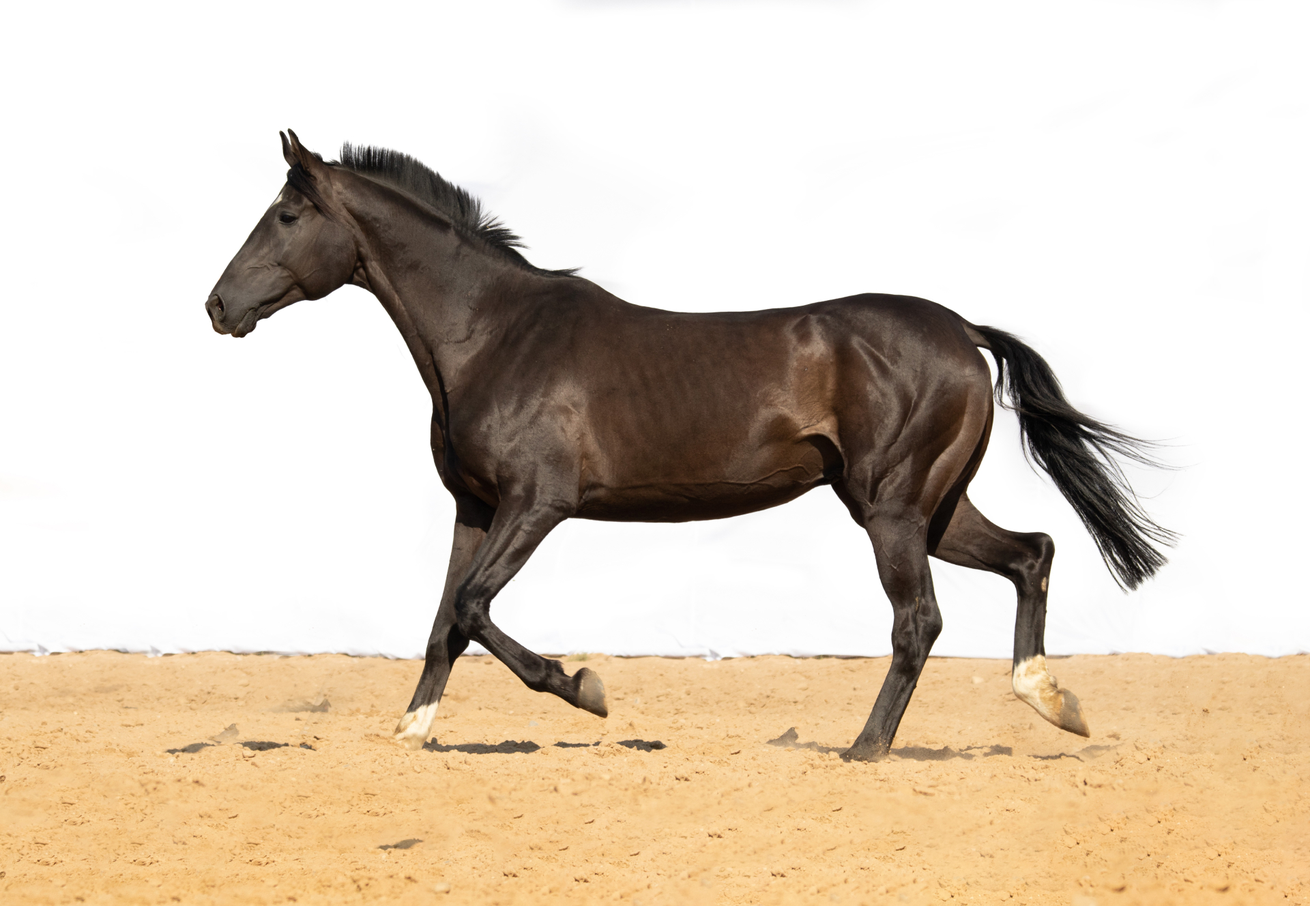
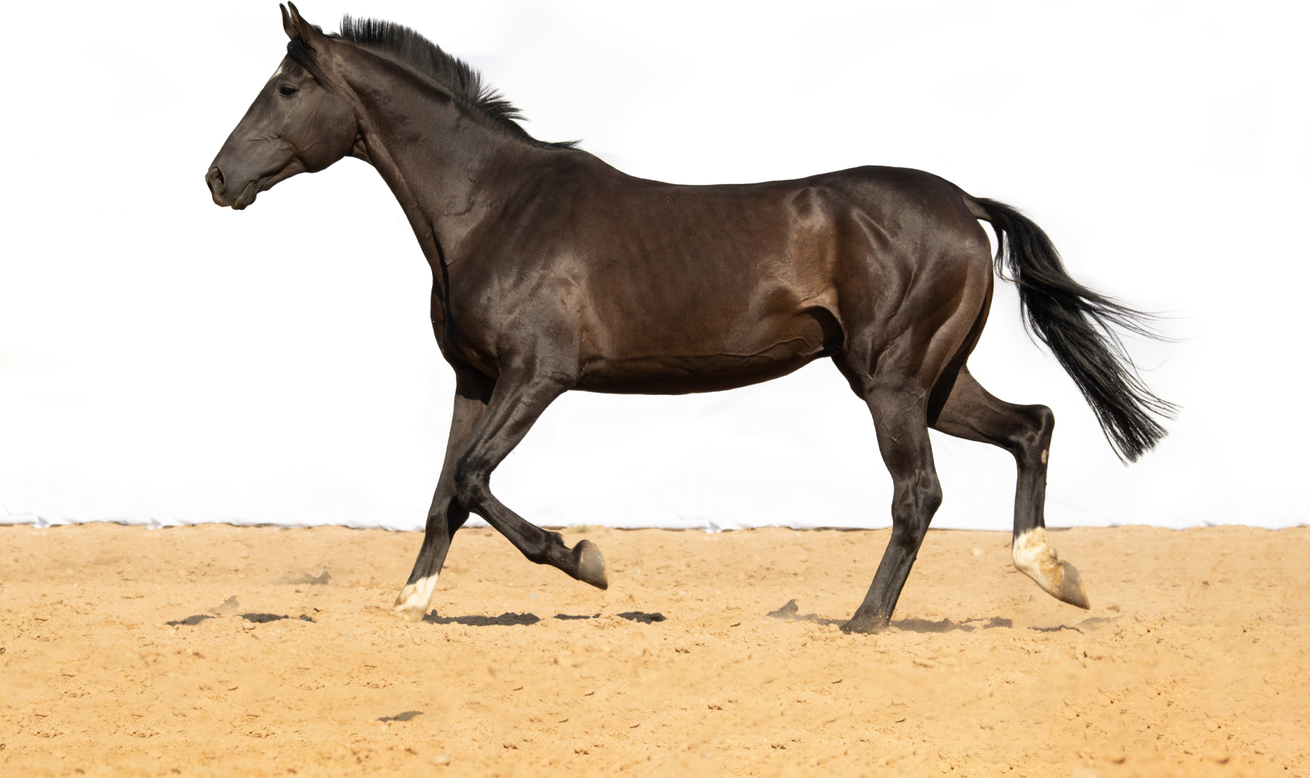
add stylization for technologie-horse section withot hover-effects

diff --git a/dist/css/main.css b/dist/css/main.css
@@ -1,1 +1,1 @@
-@charset "UTF-8";@font-face{font-family:Glyphter;src:url(../fonts/Glyphter.eot);src:url(../fonts/Glyphter.eot?#iefix) format("embedded-opentype"),url(../fonts/Glyphter.woff) format("woff"),url(../fonts/Glyphter.ttf) format("truetype"),url(../fonts/Glyphter.svg#Glyphter) format("svg");font-weight:400;font-style:normal}[class*=icon-]:before{display:inline-block;font-family:Glyphter;font-style:normal;font-weight:400;line-height:1;-webkit-font-smoothing:antialiased;-moz-osx-font-smoothing:grayscale}@font-face{font-family:"Avenir Roman";src:url(../fonts/Avenir-Roman.eot);src:local("☺"),url(../fonts/Avenir-Roman.woff) format("woff"),url(../fonts/Avenir-Roman.ttf) format("truetype"),url(../fonts/Avenir-Roman.svg) format("svg");font-weight:400;font-style:normal}@font-face{font-family:PierSans-Black;src:url(../fonts/PierSans-Black.eot);src:local("☺"),url(../fonts/PierSans-Black.woff) format("woff"),url(../fonts/PierSans-Black.ttf) format("truetype"),url(../fonts/PierSans-Black.svg) format("svg");font-weight:400;font-style:normal}@font-face{font-family:PierSans-Bold;src:url(../fonts/PierSans-Bold.eot);src:local("☺"),url(../fonts/PierSans-Bold.woff) format("woff"),url(../fonts/PierSans-Bold.ttf) format("truetype"),url(../fonts/PierSans-Bold.svg) format("svg");font-weight:400;font-style:normal}@font-face{font-family:PierSans-Regular;src:url(../fonts/PierSans-Regular.eot);src:local("☺"),url(../fonts/PierSans-Regular.woff) format("woff"),url(../fonts/PierSans-Regular.ttf) format("truetype"),url(../fonts/PierSans-Regular.svg) format("svg");font-weight:400;font-style:normal}.icon-right-arrow:before{content:"A"}.icon-link:before{content:"B"}.icon-left-arrow:before{content:"C"}.icon-tw:before{content:"D"}.icon-youtube:before{content:"E"}.icon-eye:before{content:"F"}.pb-10{padding-bottom:10px}.pb-40{padding-bottom:40px}.pt-70{padding-top:70px}abbr,address,article,aside,audio,b,blockquote,body,canvas,caption,cite,code,dd,del,details,dfn,div,dl,dt,em,fieldset,figcaption,figure,footer,form,h1,h2,h3,h4,h5,h6,header,hgroup,html,i,iframe,img,ins,kbd,label,legend,li,mark,menu,nav,object,ol,p,pre,q,samp,section,small,span,strong,sub,summary,sup,table,tbody,td,tfoot,th,thead,time,tr,ul,var,video{margin:0;padding:0;border:0;outline:0;font-size:100%;vertical-align:baseline;background:0 0}body{line-height:1}article,aside,details,figcaption,figure,footer,header,hgroup,menu,nav,section{display:block}nav ul{list-style:none}blockquote,q{quotes:none}blockquote:after,blockquote:before,q:after,q:before{content:"";content:none}a{margin:0;padding:0;font-size:100%;vertical-align:baseline;background:0 0}ins{background-color:#ff9;color:#000;text-decoration:none}mark{background-color:#ff9;color:#000;font-style:italic;font-weight:700}del{text-decoration:line-through}abbr[title],dfn[title]{border-bottom:1px dotted;cursor:help}table{border-collapse:collapse;border-spacing:0}hr{display:block;height:1px;border:0;border-top:1px solid #ccc;margin:1em 0;padding:0}input,select{vertical-align:middle}ul{list-style:none}a{text-decoration:none;color:inherit}*,::after,::before{box-sizing:border-box}body{font-family:"Avenir Roman"}.top-btm-container{max-width:1440px;margin:0 auto}.main-container{max-width:1196px;margin:0 auto}.blue-container{max-width:1626px;margin:0 auto;background:#edf5fb}.button{height:44px;width:48%;text-align:center;background:#0376c4;border-radius:5px;border:none;color:#fff;font-family:"Avenir Roman";font-weight:900;font-size:14px;line-height:19px;text-transform:uppercase;transition:.3s all}.button:hover{background:#0b67a5;cursor:pointer}.button:active{background:#084d7a}.contact-form{width:100%;max-width:461px;border-radius:15px;padding:50px 80px 50px 80px}.contact-form__title{font-family:PierSans-Regular;font-weight:400;font-size:30px;line-height:36px;letter-spacing:.05em;color:#1f1f1f;text-align:center;padding-bottom:30px}.contact-form__input-group{position:relative;margin-bottom:40px}.contact-form__input{font-family:"Avenir Roman";font-weight:900;font-size:16px;line-height:22px;letter-spacing:.05em;color:#1f1f1f;display:block;border:none;background:0 0;width:100%;border-bottom:1px solid #000;padding-bottom:7px}.contact-form__input:focus{outline:0}.contact-form__input:focus~.contact-form__label,.contact-form__input:valid~.contact-form__label{top:-15px;font-size:12px;color:#333637}.contact-form .bar{position:relative;display:block;width:320px}.contact-form .bar::after,.contact-form .bar::before{content:"";height:2px;width:0;bottom:0;position:absolute;background:#5264ae;transition:.2s ease all;-moz-transition:.2s ease all;-webkit-transition:.2s ease all}.contact-form .bar::before{left:50%}.contact-form .bar::after{right:50%}.contact-form__input:focus~.bar::after,.contact-form__input:focus~.bar::before{width:50%}.contact-form__label{font-family:"Avenir Roman";font-weight:900;font-size:16px;line-height:22px;letter-spacing:.05em;color:#1f1f1f;position:absolute;pointer-events:none;left:0;top:0;transition:.2s ease all;-moz-transition:.2s ease all;-webkit-transition:.2s ease all}.contact-form__select{font-family:"Avenir Roman";font-weight:900;font-size:16px;line-height:22px;letter-spacing:.05em;color:#1f1f1f;display:block;border:none;background:0 0;width:100%;border-bottom:1px solid #000;padding-left:0;padding-bottom:7px;margin-bottom:40px}.contact-form__text{font-family:"Avenir Roman";font-weight:500;font-size:11px;line-height:15px;letter-spacing:.05em;color:#333637;padding-top:25px}.section__header{width:100%;display:flex;justify-content:space-between;padding-bottom:37px}.section__header-titles{width:40%}.section__header-text{width:34%}.section__title{font-family:PierSans-Black;font-weight:900;font-size:70px;line-height:84px;color:#0376c3}.section__subtitle{font-family:PierSans-Black;font-weight:900;font-size:22px;line-height:27px;letter-spacing:.02em;color:#0376c3}.section__text{font-family:"Avenir Roman";font-weight:500;font-size:16px;line-height:27px;letter-spacing:.02em;color:#1f1f1f;padding-bottom:30px}.section__text+.section__text:last-child{padding-bottom:0}.header{height:100vh;background-image:url(../img/top-bg.jpg);background-repeat:no-repeat;background-size:cover;background-position:center;display:flex;flex-direction:column;justify-content:space-between}.header__inner{border-bottom:1px solid #fff}.header__header-wrapper{width:100%;height:130px;display:flex;justify-content:space-between;align-items:center}.navigation__list{display:flex;justify-content:space-between}.navigation__list-item{padding-right:45px}.navigation__list-item+.navigation__list-item:last-child{padding-right:0}.navigation__link{font-family:"Avenir Roman";font-weight:500;font-size:18px;line-height:25px;text-transform:uppercase;color:#fff}.social{display:flex}.social__link{color:#fff}.social__item{padding-right:30px}.social__link+.social__link:last-child{padding-right:0}.top-wrapper{display:flex;justify-content:center;align-items:center;-webkit-box-flex:1;box-sizing:border-box;flex:1}.top-content{display:flex;justify-content:space-between;align-items:center}.content{width:46%}.content__date-wrapper{display:flex}.content__date{font-family:PierSans-Black;font-weight:900;font-size:30px;line-height:36px;color:#fff;padding-right:7px}.content__title{font-family:PierSans-Black;font-weight:900;font-size:90px;line-height:108px;color:#fff}.content__text{font-family:"Avenir Roman";font-weight:500;font-size:18px;line-height:25px;color:#fff;margin-top:35px}.benefits{display:flex;justify-content:space-between;width:60%;margin-top:110px}.benefits-item{width:12%}.benefits-item__number{font-family:PierSans-Black;font-weight:900;font-size:30px;line-height:36px;color:#fff;padding-bottom:10px}.benefits-item__text{font-family:"Avenir Roman";font-weight:500;font-size:18px;line-height:25px;color:#fff}.small-num{font-family:PierSans-Bold;font-weight:500;font-size:14px;line-height:22px;padding-left:7}.top-form{background-color:rgba(255,255,255,.5);-webkit-backdrop-filter:blur(2px);backdrop-filter:blur(2px)}.features{padding-top:157px;margin-bottom:186px}.icon-eye{width:39px;height:39px;border-radius:50%;background:#fff;color:#0376c3;text-align:center;line-height:46px;font-size:25px;transition:.2s all}.icon-eye:hover{cursor:pointer;background:#0376c3;color:#fff;border:1px solid #fff}.product{display:flex;justify-content:space-between}.product__item{position:relative}.product__item .eye1{position:absolute;top:121px;left:203px}.product__item .eye2{position:absolute;top:269px;left:256px}.product__item .eye3{position:absolute;top:458px;left:471px}.product__card{width:100%;height:-webkit-min-content;height:-moz-min-content;height:min-content;background:#edf5fb;border-radius:10px;display:flex;flex-direction:column;align-items:center;padding-bottom:60px}.product__card-wrapper{width:34%;height:-webkit-min-content;height:-moz-min-content;height:min-content}.product__card-img{padding-left:100px}.product__card-description{width:43%;text-align:center}.product__card-title{font-family:PierSans-Black;font-weight:900;font-size:16px;line-height:19px;letter-spacing:.05em;color:#0376c3;text-transform:uppercase;padding-bottom:35px}.product__card-text{font-family:"Avenir Roman";font-weight:500;font-size:16px;line-height:22px;color:#1f1f1f;padding-bottom:35px}.product__card-text+.product__card-text:last-child{padding-bottom:0}.text-italic{font-style:italic}.anwendungen{padding:135px 0 170px 0}.anwendungen__title{text-align:center;padding-bottom:90px}.anwendungen__items{width:100%;display:flex;justify-content:space-between}.anwendungen__item{width:15%;text-align:center}.anwendungen__item-title{padding:25px 0 25px 0;font-family:PierSans-Black;font-weight:900;font-size:16px;line-height:19px;letter-spacing:.02em;color:#0376c3}.anwendungen__item-text{font-family:"Avenir Roman";font-weight:500;font-size:16px;line-height:22px;color:#1f1f1f}.technologie{padding-top:250px}.technologie__content{display:flex;justify-content:space-between}.technologie__info{width:50%}.technologie__info-text{font-family:"Avenir Roman";font-weight:500;font-size:18px;line-height:25px}.technologie__img{height:450px}.technologie__items{width:100%;display:flex;justify-content:space-between}.technologie__item{width:27%;display:flex}.technologie__item-dash{font-weight:700;font-size:20px;line-height:19px;color:#0376c3;padding-right:20px}.produkte{padding-top:160px;background:url(../img/big-ellipse.svg);background-repeat:no-repeat;background-size:auto;background-position:left;background-position-y:bottom}.produkte__info{position:relative}.produkte__section{width:100%;display:flex;justify-content:space-between;align-items:center;padding-bottom:20px}.produkte__section+.produkte__section:last-child{padding-bottom:22px}.produkte__title{font-family:PierSans-Black;font-weight:900;font-size:30px;line-height:18px;color:#0376c3}.produkte__list{padding:40px 0 42px 0;list-style:inherit;text-transform:lowercase;padding-left:15px}.produkte__list-item{padding-bottom:20px;font-family:"Avenir Roman";font-weight:900;font-size:18px;line-height:18px}.produkte__list-item+.produkte__list-item:last-child{padding-bottom:0}.line{position:absolute;width:455px;top:6px;right:361px}.line-rev{position:absolute;width:380px;top:77px;left:310px;transform:scale(-1,1)}
+@charset "UTF-8";@font-face{font-family:Glyphter;src:url(../fonts/Glyphter.eot);src:url(../fonts/Glyphter.eot?#iefix) format("embedded-opentype"),url(../fonts/Glyphter.woff) format("woff"),url(../fonts/Glyphter.ttf) format("truetype"),url(../fonts/Glyphter.svg#Glyphter) format("svg");font-weight:400;font-style:normal}[class*=icon-]:before{display:inline-block;font-family:Glyphter;font-style:normal;font-weight:400;line-height:1;-webkit-font-smoothing:antialiased;-moz-osx-font-smoothing:grayscale}@font-face{font-family:"Avenir Roman";src:url(../fonts/Avenir-Roman.eot);src:local("☺"),url(../fonts/Avenir-Roman.woff) format("woff"),url(../fonts/Avenir-Roman.ttf) format("truetype"),url(../fonts/Avenir-Roman.svg) format("svg");font-weight:400;font-style:normal}@font-face{font-family:PierSans-Black;src:url(../fonts/PierSans-Black.eot);src:local("☺"),url(../fonts/PierSans-Black.woff) format("woff"),url(../fonts/PierSans-Black.ttf) format("truetype"),url(../fonts/PierSans-Black.svg) format("svg");font-weight:400;font-style:normal}@font-face{font-family:PierSans-Bold;src:url(../fonts/PierSans-Bold.eot);src:local("☺"),url(../fonts/PierSans-Bold.woff) format("woff"),url(../fonts/PierSans-Bold.ttf) format("truetype"),url(../fonts/PierSans-Bold.svg) format("svg");font-weight:400;font-style:normal}@font-face{font-family:PierSans-Regular;src:url(../fonts/PierSans-Regular.eot);src:local("☺"),url(../fonts/PierSans-Regular.woff) format("woff"),url(../fonts/PierSans-Regular.ttf) format("truetype"),url(../fonts/PierSans-Regular.svg) format("svg");font-weight:400;font-style:normal}.icon-right-arrow:before{content:"A"}.icon-link:before{content:"B"}.icon-left-arrow:before{content:"C"}.icon-tw:before{content:"D"}.icon-youtube:before{content:"E"}.icon-eye:before{content:"F"}.pb-10{padding-bottom:10px}.pb-40{padding-bottom:40px}.pt-70{padding-top:70px}abbr,address,article,aside,audio,b,blockquote,body,canvas,caption,cite,code,dd,del,details,dfn,div,dl,dt,em,fieldset,figcaption,figure,footer,form,h1,h2,h3,h4,h5,h6,header,hgroup,html,i,iframe,img,ins,kbd,label,legend,li,mark,menu,nav,object,ol,p,pre,q,samp,section,small,span,strong,sub,summary,sup,table,tbody,td,tfoot,th,thead,time,tr,ul,var,video{margin:0;padding:0;border:0;outline:0;font-size:100%;vertical-align:baseline;background:0 0}body{line-height:1}article,aside,details,figcaption,figure,footer,header,hgroup,menu,nav,section{display:block}nav ul{list-style:none}blockquote,q{quotes:none}blockquote:after,blockquote:before,q:after,q:before{content:"";content:none}a{margin:0;padding:0;font-size:100%;vertical-align:baseline;background:0 0}ins{background-color:#ff9;color:#000;text-decoration:none}mark{background-color:#ff9;color:#000;font-style:italic;font-weight:700}del{text-decoration:line-through}abbr[title],dfn[title]{border-bottom:1px dotted;cursor:help}table{border-collapse:collapse;border-spacing:0}hr{display:block;height:1px;border:0;border-top:1px solid #ccc;margin:1em 0;padding:0}input,select{vertical-align:middle}ul{list-style:none}a{text-decoration:none;color:inherit}*,::after,::before{box-sizing:border-box}body{font-family:"Avenir Roman"}.top-btm-container{max-width:1440px;margin:0 auto}.main-container{max-width:1196px;margin:0 auto}.blue-container{max-width:1626px;margin:0 auto;background:#edf5fb}.button{height:44px;width:48%;text-align:center;background:#0376c4;border-radius:5px;border:none;color:#fff;font-family:"Avenir Roman";font-weight:900;font-size:14px;line-height:19px;text-transform:uppercase;transition:.3s all}.button:hover{background:#0b67a5;cursor:pointer}.button:active{background:#084d7a}.contact-form{width:100%;max-width:461px;border-radius:15px;padding:50px 80px 50px 80px}.contact-form__title{font-family:PierSans-Regular;font-weight:400;font-size:30px;line-height:36px;letter-spacing:.05em;color:#1f1f1f;text-align:center;padding-bottom:30px}.contact-form__input-group{position:relative;margin-bottom:40px}.contact-form__input{font-family:"Avenir Roman";font-weight:900;font-size:16px;line-height:22px;letter-spacing:.05em;color:#1f1f1f;display:block;border:none;background:0 0;width:100%;border-bottom:1px solid #000;padding-bottom:7px}.contact-form__input:focus{outline:0}.contact-form__input:focus~.contact-form__label,.contact-form__input:valid~.contact-form__label{top:-15px;font-size:12px;color:#333637}.contact-form .bar{position:relative;display:block;width:320px}.contact-form .bar::after,.contact-form .bar::before{content:"";height:2px;width:0;bottom:0;position:absolute;background:#5264ae;transition:.2s ease all;-moz-transition:.2s ease all;-webkit-transition:.2s ease all}.contact-form .bar::before{left:50%}.contact-form .bar::after{right:50%}.contact-form__input:focus~.bar::after,.contact-form__input:focus~.bar::before{width:50%}.contact-form__label{font-family:"Avenir Roman";font-weight:900;font-size:16px;line-height:22px;letter-spacing:.05em;color:#1f1f1f;position:absolute;pointer-events:none;left:0;top:0;transition:.2s ease all;-moz-transition:.2s ease all;-webkit-transition:.2s ease all}.contact-form__select{font-family:"Avenir Roman";font-weight:900;font-size:16px;line-height:22px;letter-spacing:.05em;color:#1f1f1f;display:block;border:none;background:0 0;width:100%;border-bottom:1px solid #000;padding-left:0;padding-bottom:7px;margin-bottom:40px}.contact-form__text{font-family:"Avenir Roman";font-weight:500;font-size:11px;line-height:15px;letter-spacing:.05em;color:#333637;padding-top:25px}.section__header{width:100%;display:flex;justify-content:space-between;padding-bottom:37px}.section__header-titles{width:40%}.section__header-text{width:34%}.section__title{font-family:PierSans-Black;font-weight:900;font-size:70px;line-height:84px;color:#0376c3}.section__subtitle{font-family:PierSans-Black;font-weight:900;font-size:22px;line-height:27px;letter-spacing:.02em;color:#0376c3}.section__text{font-family:"Avenir Roman";font-weight:500;font-size:16px;line-height:27px;letter-spacing:.02em;color:#1f1f1f;padding-bottom:30px}.section__text+.section__text:last-child{padding-bottom:0}.header{height:100vh;background-image:url(../img/top-bg.jpg);background-repeat:no-repeat;background-size:cover;background-position:center;display:flex;flex-direction:column;justify-content:space-between}.header__inner{border-bottom:1px solid #fff}.header__header-wrapper{width:100%;height:130px;display:flex;justify-content:space-between;align-items:center}.navigation__list{display:flex;justify-content:space-between}.navigation__list-item{padding-right:45px}.navigation__list-item+.navigation__list-item:last-child{padding-right:0}.navigation__link{font-family:"Avenir Roman";font-weight:500;font-size:18px;line-height:25px;text-transform:uppercase;color:#fff}.social{display:flex}.social__link{color:#fff}.social__item{padding-right:30px}.social__link+.social__link:last-child{padding-right:0}.top-wrapper{display:flex;justify-content:center;align-items:center;-webkit-box-flex:1;box-sizing:border-box;flex:1}.top-content{display:flex;justify-content:space-between;align-items:center}.content{width:46%}.content__date-wrapper{display:flex}.content__date{font-family:PierSans-Black;font-weight:900;font-size:30px;line-height:36px;color:#fff;padding-right:7px}.content__title{font-family:PierSans-Black;font-weight:900;font-size:90px;line-height:108px;color:#fff}.content__text{font-family:"Avenir Roman";font-weight:500;font-size:18px;line-height:25px;color:#fff;margin-top:35px}.benefits{display:flex;justify-content:space-between;width:60%;margin-top:110px}.benefits-item{width:12%}.benefits-item__number{font-family:PierSans-Black;font-weight:900;font-size:30px;line-height:36px;color:#fff;padding-bottom:10px}.benefits-item__text{font-family:"Avenir Roman";font-weight:500;font-size:18px;line-height:25px;color:#fff}.small-num{font-family:PierSans-Bold;font-weight:500;font-size:14px;line-height:22px;padding-left:7}.top-form{background-color:rgba(255,255,255,.5);-webkit-backdrop-filter:blur(2px);backdrop-filter:blur(2px)}.features{padding-top:157px;margin-bottom:186px}.icon-eye{width:39px;height:39px;border-radius:50%;background:#fff;color:#0376c3;text-align:center;line-height:46px;font-size:25px;transition:.2s all}.icon-eye:hover{cursor:pointer;background:#0376c3;color:#fff;border:1px solid #fff}.product{display:flex;justify-content:space-between}.product__item{position:relative}.product__item .eye1{position:absolute;top:121px;left:203px}.product__item .eye2{position:absolute;top:269px;left:256px}.product__item .eye3{position:absolute;top:458px;left:471px}.product__card{width:100%;height:-webkit-min-content;height:-moz-min-content;height:min-content;background:#edf5fb;border-radius:10px;display:flex;flex-direction:column;align-items:center;padding-bottom:60px}.product__card-wrapper{width:34%;height:-webkit-min-content;height:-moz-min-content;height:min-content}.product__card-img{padding-left:100px}.product__card-description{width:43%;text-align:center}.product__card-title{font-family:PierSans-Black;font-weight:900;font-size:16px;line-height:19px;letter-spacing:.05em;color:#0376c3;text-transform:uppercase;padding-bottom:35px}.product__card-text{font-family:"Avenir Roman";font-weight:500;font-size:16px;line-height:22px;color:#1f1f1f;padding-bottom:35px}.product__card-text+.product__card-text:last-child{padding-bottom:0}.text-italic{font-style:italic}.anwendungen{padding:135px 0 170px 0}.anwendungen__title{text-align:center;padding-bottom:90px}.anwendungen__items{width:100%;display:flex;justify-content:space-between}.anwendungen__item{width:15%;text-align:center}.anwendungen__item-title{padding:25px 0 25px 0;font-family:PierSans-Black;font-weight:900;font-size:16px;line-height:19px;letter-spacing:.02em;color:#0376c3}.anwendungen__item-text{font-family:"Avenir Roman";font-weight:500;font-size:16px;line-height:22px;color:#1f1f1f}.technologie{padding-top:250px}.technologie__content{display:flex;justify-content:space-between}.technologie__info{width:50%}.technologie__info-text{font-family:"Avenir Roman";font-weight:500;font-size:18px;line-height:25px}.technologie__img{height:450px}.technologie__items{width:100%;display:flex;justify-content:space-between}.technologie__item{width:27%;display:flex}.technologie__item-dash{font-weight:700;font-size:20px;line-height:19px;color:#0376c3;padding-right:20px}.produkte{padding-top:160px;background-image:url(../img/big-ellipse.svg);background-repeat:no-repeat;background-position:bottom left}.produkte__info{position:relative}.produkte__section{width:100%;display:flex;justify-content:space-between;align-items:center;padding-bottom:20px}.produkte__section+.produkte__section:last-child{padding-bottom:22px}.produkte__title{font-family:PierSans-Black;font-weight:900;font-size:30px;line-height:18px;color:#0376c3}.produkte__list{padding:40px 0 42px 0;list-style:inherit;text-transform:lowercase;padding-left:15px}.produkte__list-item{padding-bottom:20px;font-family:"Avenir Roman";font-weight:900;font-size:18px;line-height:18px}.produkte__list-item+.produkte__list-item:last-child{padding-bottom:0}.line{position:absolute;width:455px;top:6px;right:361px}.line-rev{position:absolute;width:380px;top:77px;left:310px;transform:scale(-1,1)}.technologie-horse{padding-top:150px}.horse{max-width:1920px;min-height:1141px;background-image:url(../img/horse.jpg);background-repeat:no-repeat;background-size:cover;background-position:center}.horse-dots{width:100%;display:flex;justify-content:space-between;position:relative;min-height:1141px}.horse-dots__circle{width:48px;height:48px;background-color:#0376c3;color:#fff;border-radius:50%;font-family:PierSans-Black;font-weight:900;font-size:30px;line-height:37px;letter-spacing:.02em;text-align:center}.horse-dots__text{display:none}.dot--1{position:absolute;top:245px;left:245px}.dot--2{position:absolute;top:378px;left:353px}.dot--3{position:absolute;top:263px;left:606px}.dot--4{position:absolute;top:257px;left:817px}.dot--5{position:absolute;top:500px;left:885px}.dot--6{position:absolute;top:784px;left:947px}.dot--7{position:absolute;top:835px;left:1193px}.dot--8{position:absolute;top:733px;left:265px}.dot--9{position:absolute;top:764px;left:419px}

diff --git a/dist/index.html b/dist/index.html
@@ -316,6 +316,84 @@
           </div>
         </header>
       </div>
+
+      <div class="horse">
+        <div class="main-container">
+          <div class="horse-dots">
+            <div class="horse-dots__container dot--1">
+              <div class="horse-dots__circle">+</div>
+              <h4 class="horse-dots__text">
+                Durch die Aktivierung 
+                der Gene werden 
+              </h4>
+            </div>
+            <div class="horse-dots__container dot--2">
+              <div class="horse-dots__circle">+</div>
+              <h4 class="horse-dots__text">
+                Durch die Aktivierung 
+                der Gene werden 
+              </h4>
+            </div>
+            
+            <div class="horse-dots__container dot--3">
+              <div class="horse-dots__circle">+</div>
+              <h4 class="horse-dots__text">
+                Durch die Aktivierung 
+                der Gene werden 
+              </h4>  
+            </div>
+            
+            <div class="horse-dots__container dot--4">
+              <div class="horse-dots__circle">+</div>
+              <h4 class="horse-dots__text">
+                Durch die Aktivierung 
+                der Gene werden 
+              </h4>  
+            </div>
+            
+            <div class="horse-dots__container dot--5">
+              <div class="horse-dots__circle">+</div>
+              <h4 class="horse-dots__text">
+                Durch die Aktivierung 
+                der Gene werden 
+              </h4>  
+            </div>
+            
+            <div class="horse-dots__container dot--6">
+              <div class="horse-dots__circle">+</div>
+              <h4 class="horse-dots__text">
+                Durch die Aktivierung 
+                der Gene werden 
+              </h4>  
+            </div>
+            
+            <div class="horse-dots__container dot--7">
+              <div class="horse-dots__circle">+</div>
+              <h4 class="horse-dots__text">
+                Durch die Aktivierung 
+                der Gene werden 
+              </h4>  
+            </div>
+            
+            <div class="horse-dots__container dot--8">
+              <div class="horse-dots__circle">+</div>
+              <h4 class="horse-dots__text">
+                Durch die Aktivierung 
+                der Gene werden 
+              </h4>  
+            </div>
+            
+            <div class="horse-dots__container dot--9">
+              <div class="horse-dots__circle">+</div>
+              <h4 class="horse-dots__text">
+                Durch die Aktivierung 
+                der Gene werden 
+              </h4>  
+            </div>
+            
+          </div>
+        </div>
+      </div>
     </section>
 
     <section class="slider">

diff --git a/src/index.html b/src/index.html
@@ -316,6 +316,84 @@
           </div>
         </header>
       </div>
+
+      <div class="horse">
+        <div class="main-container">
+          <div class="horse-dots">
+            <div class="horse-dots__container dot--1">
+              <div class="horse-dots__circle">+</div>
+              <h4 class="horse-dots__text">
+                Durch die Aktivierung 
+                der Gene werden 
+              </h4>
+            </div>
+            <div class="horse-dots__container dot--2">
+              <div class="horse-dots__circle">+</div>
+              <h4 class="horse-dots__text">
+                Durch die Aktivierung 
+                der Gene werden 
+              </h4>
+            </div>
+            
+            <div class="horse-dots__container dot--3">
+              <div class="horse-dots__circle">+</div>
+              <h4 class="horse-dots__text">
+                Durch die Aktivierung 
+                der Gene werden 
+              </h4>  
+            </div>
+            
+            <div class="horse-dots__container dot--4">
+              <div class="horse-dots__circle">+</div>
+              <h4 class="horse-dots__text">
+                Durch die Aktivierung 
+                der Gene werden 
+              </h4>  
+            </div>
+            
+            <div class="horse-dots__container dot--5">
+              <div class="horse-dots__circle">+</div>
+              <h4 class="horse-dots__text">
+                Durch die Aktivierung 
+                der Gene werden 
+              </h4>  
+            </div>
+            
+            <div class="horse-dots__container dot--6">
+              <div class="horse-dots__circle">+</div>
+              <h4 class="horse-dots__text">
+                Durch die Aktivierung 
+                der Gene werden 
+              </h4>  
+            </div>
+            
+            <div class="horse-dots__container dot--7">
+              <div class="horse-dots__circle">+</div>
+              <h4 class="horse-dots__text">
+                Durch die Aktivierung 
+                der Gene werden 
+              </h4>  
+            </div>
+            
+            <div class="horse-dots__container dot--8">
+              <div class="horse-dots__circle">+</div>
+              <h4 class="horse-dots__text">
+                Durch die Aktivierung 
+                der Gene werden 
+              </h4>  
+            </div>
+            
+            <div class="horse-dots__container dot--9">
+              <div class="horse-dots__circle">+</div>
+              <h4 class="horse-dots__text">
+                Durch die Aktivierung 
+                der Gene werden 
+              </h4>  
+            </div>
+            
+          </div>
+        </div>
+      </div>
     </section>
 
     <section class="slider">

diff --git a/src/scss/page/_technologie-horse.scss b/src/scss/page/_technologie-horse.scss
@@ -1,0 +1,84 @@
+.technologie-horse {
+  padding-top: 150px;
+
+
+}
+
+.horse {
+  max-width: 1920px;
+  min-height: 1141px;
+  background-image: url('../img/horse.jpg');
+  background-repeat: no-repeat;
+  background-size: cover;
+  background-position: center;
+
+  &-dots {
+    width: 100%;
+    display: flex;
+    justify-content: space-between;
+    position: relative;
+    min-height: 1141px;
+
+    &__circle {
+      width: 48px;
+      height: 48px;
+      background-color: $blue;
+      color: #fff;
+      border-radius: 50%;
+
+      font-family: $ffp-black;
+      @include fwfslhls(900, 30px, 37px, 0.02em);
+      text-align: center;
+    }
+
+    &__text {
+      display: none;
+    }
+  }
+}
+
+.dot--1 {
+  position: absolute;
+  top: 245px;
+  left: 245px;
+}
+.dot--2 {
+  position: absolute;
+  top: 378px;
+  left: 353px;
+}
+.dot--3 {
+  position: absolute;
+  top: 263px;
+  left: 606px;
+}
+.dot--4 {
+  position: absolute;
+  top: 257px;
+  left: 817px;
+}
+.dot--5 {
+  position: absolute;
+  top: 500px;
+  left: 885px;
+}
+.dot--6 {
+  position: absolute;
+  top: 784px;
+  left: 947px;
+}
+.dot--7 {
+  position: absolute;
+  top: 835px;
+  left: 1193px;
+}
+.dot--8 {
+  position: absolute;
+  top: 733px;
+  left: 265px;
+}
+.dot--9 {
+  position: absolute;
+  top: 764px;
+  left: 419px;
+}

diff --git a/src/scss/page/_produkte.scss b/src/scss/page/_produkte.scss
@@ -1,10 +1,8 @@
 .produkte {
   padding-top: 160px;
-  background: url('../img/big-ellipse.svg');
+  background-image: url('../img/big-ellipse.svg');
   background-repeat: no-repeat;
-  background-size: auto;
-  background-position: left;
-  background-position-y: bottom;
+  background-position: bottom left;
 
   &__info {
     position: relative;

diff --git a/src/scss/main.scss b/src/scss/main.scss
@@ -202,3 +202,4 @@ body {
 @import 'page/anwendugen'; 
 @import 'page/technologie';
 @import 'page/produkte';
+@import 'page/technologie-horse';
